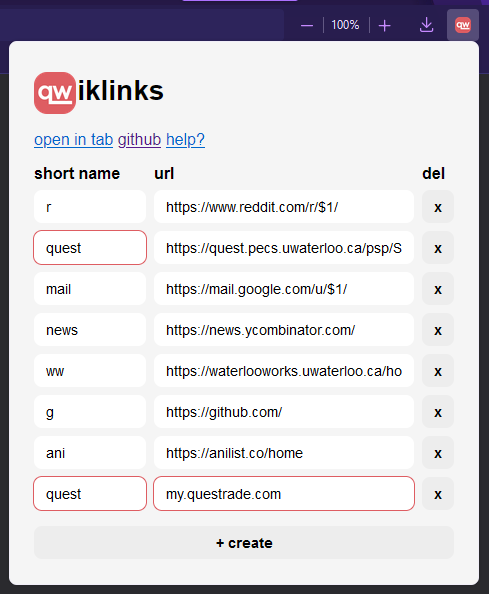
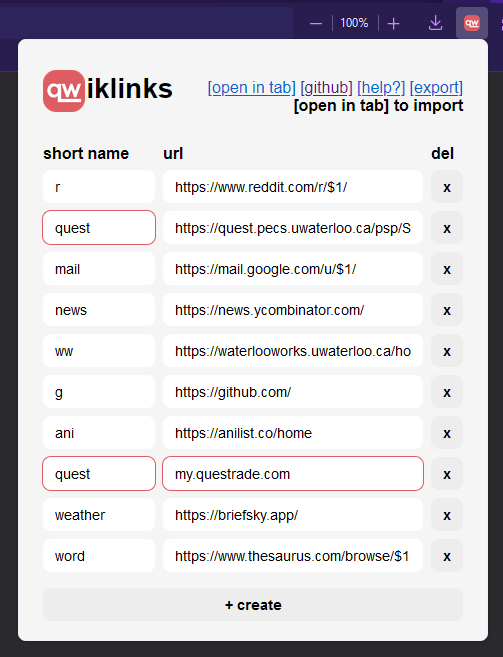
update assets

diff --git a/README.md b/README.md
@@ -3,6 +3,12 @@
 <p><img align="right" src="firefox/icons/qw-128.png" alt="qwiklinks Logo" /></p>
 Access long URLs with short, easy-to-remember names.
 
+## Why
+
+**qwiklinks** was built as a way to help people get around in their browser faster. Instead of having to memorize URL prefixes or randomly typing in keywords until the search bar autocompletes the URL, you can simply associate the URL with a short and memorable name. In a sense, qwiklinks are similar to bookmarks, but don't require you to use your mouse, take up no screen space, and thus scale "infinitely" (i.e. you don't have to sift through the bookmarks dropdown to find the one you're looking for).
+
+If you've used [GoLinks](https://www.golinks.io/), you can think of it as a "personal" alternative to their product. For a more in-depth explanation of the benefits over using bookmarks, see their website and [blog post](https://www.golinks.com/blog/how-to-save-links-the-better-alternative-to-bookmarks/) for resources written by those much more proficient in the ways of persuasion than I.
+
 ## Usage
 
 You can use qwiklinks either through an extension on your browser, or as a background service on your local machine.
@@ -11,7 +17,6 @@ You can use qwiklinks either through an extension on your browser, or as a backg
 
 <div>
 <p><img align="right" src="assets/suggest.png" alt="qwiklinks Logo" width="300"/></p>
-
 The qwiklinks extension allows you to access your links through the browser search bar (for developers, see [omnibox](https://developer.mozilla.org/en-US/docs/Mozilla/Add-ons/WebExtensions/API/omnibox)). Simply type `qw <name>` and hit enter to load the corresponding URL. A list of suggestions matching what you currently have typed will appear as you type the name.
 
 You can specify arguments by inserting placeholders in the form of `$D` in your URL, where `D` is some number between 1 and 9 inclusive. You can then specify arguments by inserting a space after your qwiklink name. For example, to navigate to the "/r/all" subreddit in the below image, one would type `qw r all` into the searchbar. All instances of `$1` in the URL will be replaced by `all`.
@@ -20,8 +25,17 @@ You can specify arguments by inserting placeholders in the form of `$D` in your 
 
 <div>
 <p><img align="right" src="assets/popup.png" alt="qwiklinks Logo" width="300"/></p>
-The qwiklinks extension provides a dashboard to manage your links. This dashbaord is accessible by clicking the qwiklinks extension through the toolbar or through the options page (Extensions > Manage Extensions > Ellipsis on qwiklinks > Options).
+The qwiklinks extension provides a dashboard to manage your links. This dashboard is accessible by clicking the qwiklinks extension through the toolbar or through the options page (Extensions > Manage Extensions > Ellipsis on qwiklinks > Options). You can also open it in its own tab by opening the popup and pressing `[open in tab]`.
 </div>
+
+#### Import/Export
+
+You can export your links to a file, which can then be shared across browsers or with other users through the import options. On Firefox, the import options will only appear when the dashboard is open in its own tab (due to some limitations of popups for security reasons).
+
+There are two types of import options:
+
+- `[append]` will add all of the new links on top of your existing ones, so you won't lose anything.
+- `[replace]` is a **destructive** action. It will override all of your existing links and replace them with the new ones. Take care when using this option (TODO prompt?)
 
 ### Installation
 
@@ -31,7 +45,6 @@ The qwiklinks extension provides a dashboard to manage your links. This dashbaor
 
 - [x] Arguments ($1, $2, ...)
   - [ ] Default arguments
-- [ ] Web dashboard to manage links
 - [x] Autosuggest
 - [x] Export and import (append/replace)
 - [ ] Themes
@@ -59,3 +72,18 @@ Enables browser-agnostic link redirection through the `qw/` prefix.
 - [ ] Web dashboard to manage links
 - [ ] Export and import links
 - [x] Hot reload links.toml
+
+## Development
+
+Development is done Firefox-first, with the Chromium code being generated using `scripts/pkg-chromium.sh`. The codebases for the two extensions are practically identical, with a few differences.
+
+- The Firefox extension uses Manifest V2, while the Chromium one uses V3
+- The browser APIs for Firefox use the `browser` namespace, while Chromium uses `chrome`. `chrome` should also work in Firefox, but just to be safe, I will stick with `browser`
+
+### Scripts
+
+All scripts live in the `scripts/` directory. It is recommended to run `chmod +x scripts/*.sh` prior to running any scripts.
+
+- `copy-icons` copies the icons from the `assets/` folder to the unpacked extension directories.
+- `pkg-${browser}` builds the packed extension for the specified browser.
+- `pkg-all` does the same as above but for all supported browsers
